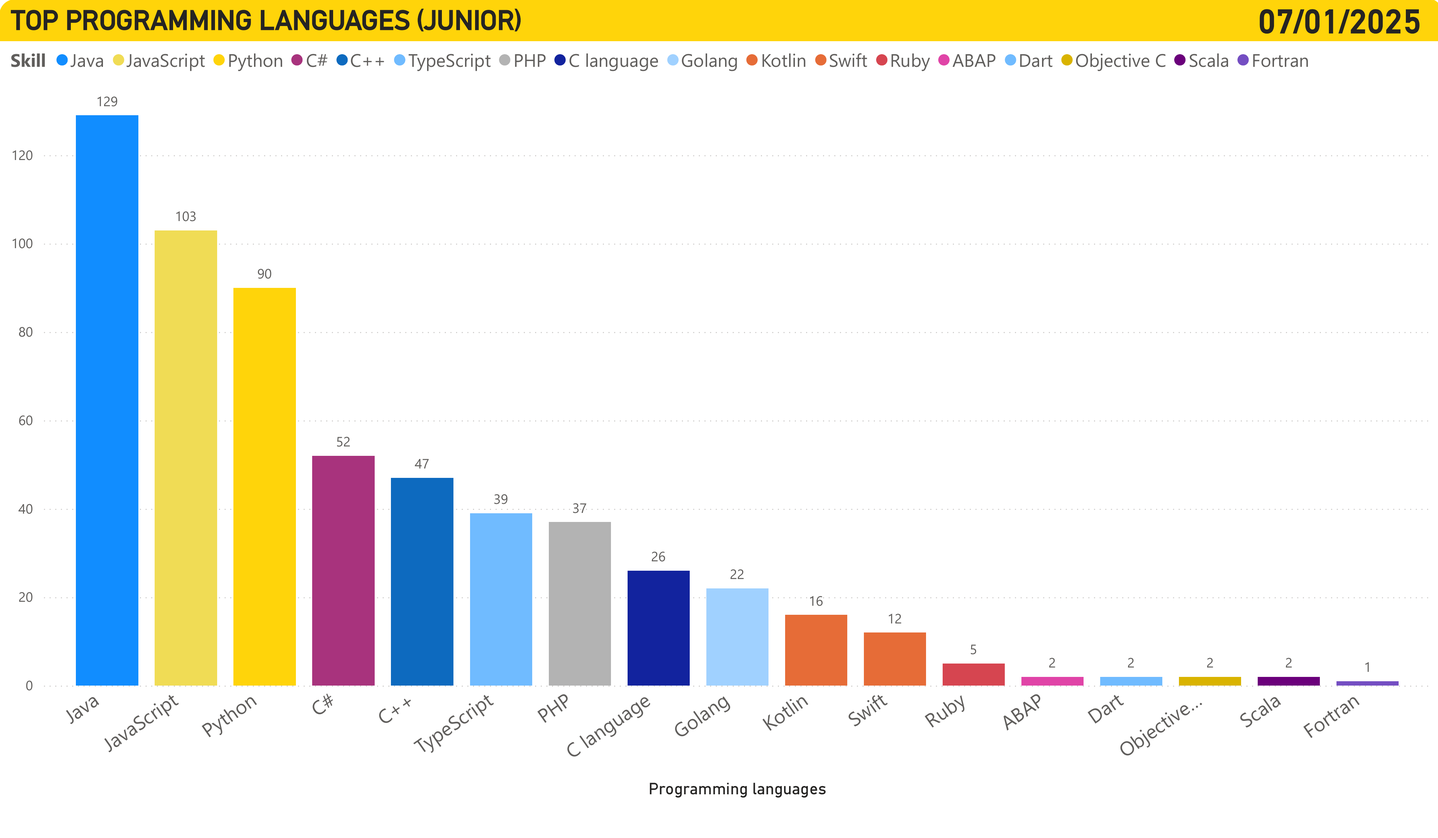
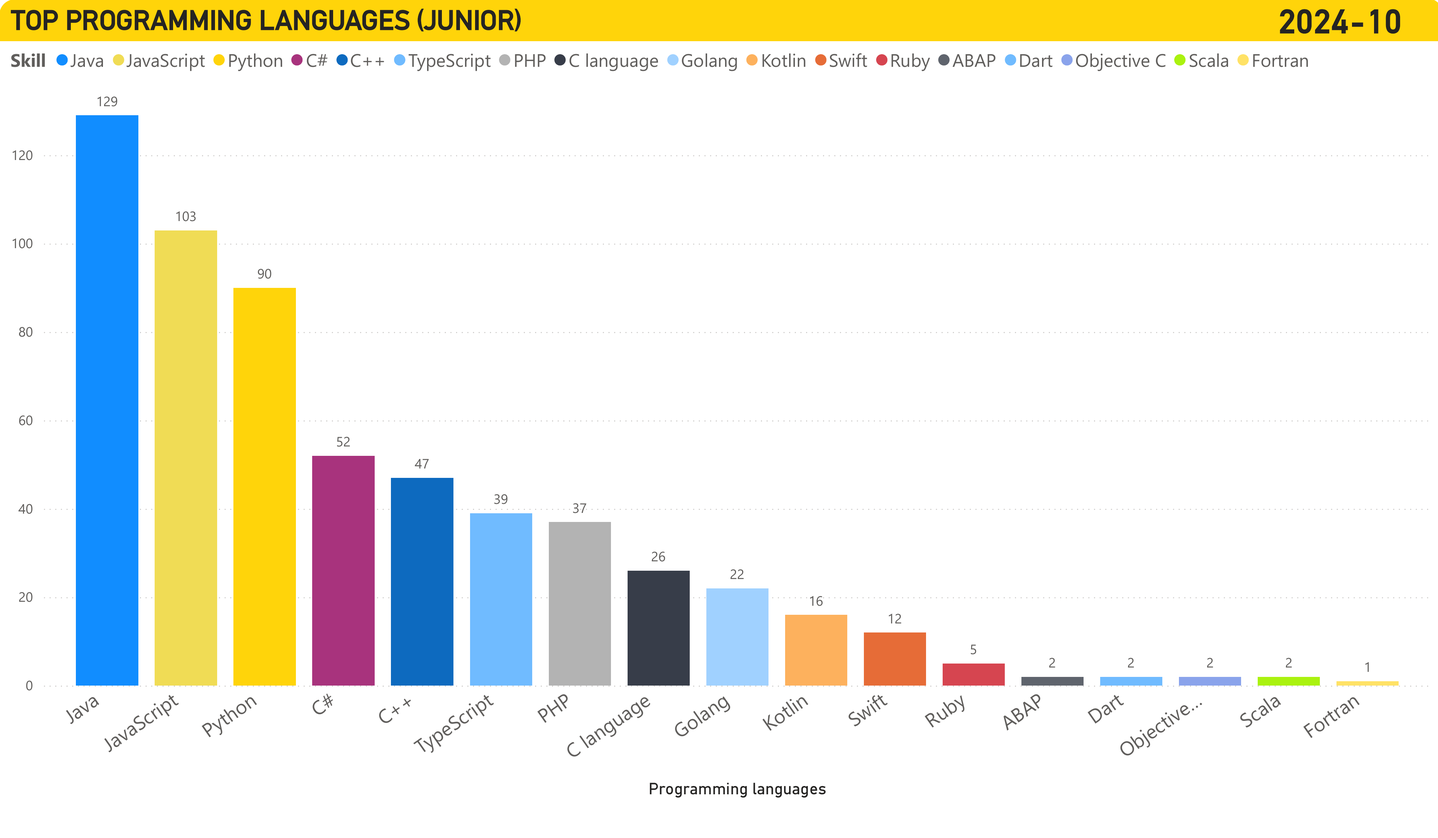
v1 1/7/2025

diff --git a/test/html_university/kythuatlaptrinh1.html b/test/html_university/kythuatlaptrinh1.html
@@ -8,7 +8,7 @@
     <link href="/src/public/css/prism.css" rel="stylesheet">
     <link href="/src/public/css/custom.css" rel="stylesheet">
     <!-- <link href="https://cdn.jsdelivr.net/npm/bootstrap@5.3.3/dist/css/bootstrap.min.css" rel="stylesheet"> -->
-    
+
 </head>
 
 <body>
@@ -83,92 +83,115 @@
                     class="scrollspy-example-2" tabindex="0">
 
                     <h2 id="item-1" class=""><strong>Mục tiêu học tập: </strong></h2>
-                    <h6 class="text-secondary mb-4">Các câu hỏi định hướng nên trả lời được sau khi hoàn thành môn học</h6>
+                    <h6 class="text-secondary mb-4">Các câu hỏi định hướng nên trả lời được sau khi hoàn thành môn học
+                    </h6>
                     <ul class="list-group">
                         <li class="list-group-item">
-                          <input class="form-check-input me-1" type="checkbox" value="" id="firstCheckbox">
-                          <label class="form-check-label" for="firstCheckbox">1. Thành thạo các kỹ thuật bảng phương án, loang mảng 2 chiều, độ phức tạp của giải thuật.</label>
+                            <input class="form-check-input me-1" type="checkbox" value="" id="firstCheckbox">
+                            <label class="form-check-label" for="firstCheckbox">1. Thành thạo các kỹ thuật bảng phương
+                                án, loang mảng 2 chiều, độ phức tạp của giải thuật.</label>
                         </li>
                         <li class="list-group-item">
-                          <input class="form-check-input me-1" type="checkbox" value="" id="secondCheckbox">
-                          <label class="form-check-label" for="secondCheckbox">2. Làm thế nào để tối ưu hóa các thuật toán đệ quy, quy hoạch động và áp dụng chúng vào các bài toán tìm kiếm, duyệt qua các dãy số, tổ hợp hoặc hoán vị?</label>
+                            <input class="form-check-input me-1" type="checkbox" value="" id="secondCheckbox">
+                            <label class="form-check-label" for="secondCheckbox">2. Làm thế nào để tối ưu hóa các thuật
+                                toán đệ quy, quy hoạch động và áp dụng chúng vào các bài toán tìm kiếm, duyệt qua các
+                                dãy số, tổ hợp hoặc hoán vị?</label>
                         </li>
-                      </ul>
+                    </ul>
                     <h2 id="item-2" class="mt-4"><strong>Kiến thức giá trị: </strong></h2>
                     <h6 class="text-secondary">Kiến thức giá trị, câu chuyện thú vị trong quá trình học tập môn học</h6>
                     <h4 id="item-2-1"><strong>#1. Trò chơi 35</strong></h4>
                     <p class="text-end">Nguồn: ThS. Trần Công Tú</p>
-                    <p><strong>Đầu tiên là luật chơi:</strong> Cho các số 1, 2, 3, 4, 5 và tổng S ban đầu bằng 0. Có 2 người chơi lần lượt chọn một trong các số đã cho theo nguyên tắc không được chọn số mà người kia vừa chọn trước đó, mỗi lần ai chọn đều cộng dồn vào tổng S.</p>
+                    <p><strong>Đầu tiên là luật chơi:</strong> Cho các số 1, 2, 3, 4, 5 và tổng S ban đầu bằng 0. Có 2
+                        người chơi lần lượt chọn một trong các số đã cho theo nguyên tắc không được chọn số mà người kia
+                        vừa chọn trước đó, mỗi lần ai chọn đều cộng dồn vào tổng S.</p>
                     <p>Ai làm cho tổng S lớn hơn 35 là thua.</p>
                     <p>Yêu cầu: Lập trình cho người chơi với máy sao cho khả năng thắng của máy là cao nhất.</p>
                     <p>Bạn hãy thử tự chơi với vai trò là 2 người. Hoặc chơi với một bạn nào đó để tìm ra quy luật.</p>
-                    <p>Dưới đây là code bài toán C++. Bạn có thể chơi cùng với máy đã cấu hình theo từng chế độ để tìm quy luật.</p>
-                    <p>Code chỗ này....</p>
+                    <p>Sẽ có 2 trường hợp chính: Một là bạn đã tìm ra được quy luật của nó trước khi dùng code. Hai là
+                        bạn vẫn không hiểu và không code được thì cũng không sao đây không phải mục đích chính bài toán
+                        này.</p>
+                    <p>Đây là đáp án:</p>
+                    <img class="rounded-3" src="/src/public/images/bang_phuong_an.png" alt="Trang đầu tiên của PDF"
+                        width="100%" />
+                    <p>Bây giờ bạn hãy chơi lượt của mình nhưng cố gắng chọn những số ở trong bảng theo từng giai đoạn
+                        tổng hiện tại của 2 người chơi.
+                        Thì bạn sẽ thấy là lượt mình chơi luôn là người chiến thắng nếu không sai sót về sau.
+                    </p>
+                    <p>Quy luật: Để tạo ra bảng đáp án trên bạn chỉ cần đánh số tổng bên phải. Hàng ngang
+                        là con số bạn có thể đánh và chiến thắng. Chúng ta sẽ tư duy ngược lại từ 35, ví dụ 35 thì thua,
+                        34 thì ai chọn 1 thì thắng,
+                        33 thì ai chọn 1 2 thì thắng, 32 thì ai chọn 1 2 3 thì thắng,..., 29 thì ai chọn 3 thì thắng (vì
+                        chọn 3 thì đối thủ không chọn được 3 nữa).
+                    </p>
+                    <p>Điều kiện: Cho đối thủ vào tổng không có lựa chọn nào như 35, 28,... hoặc cho đối thủ vào tổng có
+                        một lựa chọn nhưng lựa chọn đó bị trùng với lượt mình mới đánh.
+                        Chúng ta có bài code tạo bảng đáp án như sau:
+                    </p>
                     <div class="code-container bg-code">
                         <div class="d-flex justify-content-end">
                             <button class="btn btn-sm btn-primary mt-2 me-2" onclick="copyCode(this)">Copy</button>
                         </div>
-                        <pre class="language-sql"><code>CREATE TABLE KhachHang (
-    IDKhachHang INT PRIMARY KEY,	-- Primary Key: IDKhachHang là khóa chính
-    Ten VARCHAR(100) NOT NULL,      -- Tên khách hàng
-    Email VARCHAR(100) UNIQUE,      -- Email là duy nhất cho mỗi khách hàng
-    SDT VARCHAR(15)                 -- Số điện thoại khách hàng
-);
+                        <pre class="language-cpp"><code>#include &lt;iostream&gt;
+using namespace std;
 
-CREATE TABLE HoaDon (
-    IDHoaDon INT PRIMARY KEY,          -- Primary Key: IDBangHoaDon là khóa chính
-    NgayDatHang DATE NOT NULL,         -- Ngày đặt hàng
-    SoTien DECIMAL NOT NULL,           -- Số tiền của đơn hàng
-    IDKhachHang1 INT,                  -- Khóa ngoại liên kết với bảng BangKhachHang
-    FOREIGN KEY (IDKhachHang1) REFERENCES KhachHang(IDKhachHang)  -- Foreign Key: BangHoaDon tham chiếu đến bảng BangKhachHang qua khóa ngoại
-);
-                </code></pre>
+int main() 
+{
+    int A[40][5] = {0}; // Mảng hai chiều
+    for(int i = 35; i &gt;= 0; i--){ //Duyệt mảng từ hàng 35 trở về xuống
+        for(int j = 1; j &lt;=  5; j++){
+            if(i + j &lt;= 35){ 
+                int temp = 0;
+                for(int k = 1; k &lt;= 5; k++){ 
+                    if(A[i + j][k] != 0){ 
+                        temp++;
+                    }
+                }
+                if((temp == 1 &amp;&amp; A[i+j][j] == j) || temp == 0){ //Điều kiện bài toán
+                    A[i][j] = j;
+                }
+            }
+        }
+    }
+    
+    cout &lt;&lt; endl;
+    for(int i = 35; i &gt;= 0; i--){
+        for(int j = 1; j &lt;=  5; j++){
+            cout &lt;&lt; A[i][j] &lt;&lt; " ";
+        }
+        cout &lt;&lt; endl;
+    }
+
+}</code></pre>
                     </div>
-                    <img class="rounded-3" src="/src/public/images/HCSDL_diagram.png" alt="Trang đầu tiên của PDF" width="100%" />
-                    <p>Sẽ có 2 trường hợp chính: Một là bạn đã tìm ra được quy luật của nó trước khi dùng code. Hai là bạn vẫn không hiểu và không code được thì cũng không sao đây không phải mục đích chính bài toán này.</p>
-                    <p>Đây là đáp án:</p>
-                    <p>Ảnh...</p>
-                    <p>Chúng ta sẽ sử dụng bảng đáp án có sẵn. Để tạo ra bảng này cũng dễ, bạn chỉ cần đánh số tổng bên phải. Hàng ngang
-                        là con số bạn có thể đánh và chiến thắng. Chúng ta sẽ tư duy ngược lại từ 35, ví dụ 35 thì thua, 34 thì ai chọn 1 thì thắng,
-                         33 thì ai chọn 1 2 thì thắng, 32 thì ai chọn 1 2 3 thì thắng,..., 29 thì ai chọn 3 thì thắng (vì chọn 3 thì đối thủ không chọn được 3 nữa)
-
-                    </p>
-                    <p>Vậy vấn đề được nhận ra, nếu máy là người đi trước mà tối ưu nhất thì khi máy đánh 1 2 3 đầu tiên và theo
+                    <p>Vậy vấn đề được nhận ra, nếu máy là người đi trước mà tối ưu nhất thì khi máy đánh 1 2 3 đầu tiên
+                        và theo
                         quy luật của bảng đáp án thì sẽ luôn thắng.
                     </p>
-                    <p>Nhưng không dừng lại ở đó, nếu bạn thấy trong code chúng ta có 3 chế độ dễ, trung bình, khó (Chỉ đơn giản tới
-                        mức tổng vượt qua mức bao nhiêu thì lúc đó máy sẽ tra bảng đáp án). Vậy nó để làm gì?
-                        Không phải lúc nào người lập trình cũng tối ưu nhất về phần ứng dụng của mình. Mà cũng phải tối ưu cho <strong>người sử dụng</strong>.
-                        Đặc biệt, thấy rõ trong các trò chơi. Phải có các chế độ, các mức xếp hạng từ dễ đến khó để người dùng chinh phục.
+                    <p>Chúng ta có thể chia ra 3 chế độ dễ, trung bình, khó (chỉ đơn giản là tới mức tổng vượt qua mức bao nhiêu thì lúc đó máy sẽ tra bảng đáp án)
+                        . Vậy nó để làm gì?
+                        Không phải lúc nào người lập trình cũng tối ưu nhất về phần ứng dụng của mình. Mà cũng phải tối
+                        ưu cho <strong>người sử dụng</strong>.
+                        Đặc biệt, thấy rõ trong các trò chơi. Phải có các chế độ, các mức xếp hạng từ dễ đến khó để
+                        người dùng chinh phục.
                     </p>
-                    một số bài toán hay ho hơn cái túi, chuỗi....
-
-                    <p>Giải thích: </p>
-                    <ul>
-                        <li>Bảng KhachHang và bảng HoaDon mỗi bảng đều có một khóa chính lần lượt là IDKhachHang và IDBangHoaDon.</li>
-                        <li>Khi có hóa đơn ta không cần phải tạo thêm cột thông tin của khách hàng bởi vì đã có khóa ngoại IDKhachHang1 tham chiếu về bảng KhachHang.</li>
-                        <li>Email không được trùng lặp, Tên không được rỗng.</li>
-                    </ul>
-                    <p>Toàn bộ quá trình trên thực hiện tốt sẽ đảm bảo tính <strong>toàn vẹn</strong> của dữ liệu.</p>
-                    <div class="callout-primary ps-3">Một ứng dụng tạo ra phải đặt <strong>người dùng</strong> là yếu tố đầu tiên.</div>
-                    <h4 id="item-2-2"><strong>#2. Đệ quy Fibonacci</strong></h4>
-                    <p>.....................</p>
+                    <div class="callout-primary ps-3">Một ứng dụng tạo ra phải đặt <strong>người dùng</strong> là yếu tố
+                        đầu tiên.</div>
                 </div>
             </div>
         </div>
         <div class="col-sm-2 bg-gray">
             <!-- Database scrollspy -->
             <div class="row sticky-top pt-6">
-                    <nav id="navbar-example3" class="h-100 flex-column align-items-stretch pe-4 border-end">
+                <nav id="navbar-example3" class="h-100 flex-column align-items-stretch pe-4 border-end">
+                    <nav class="nav nav-pills flex-column">
+                        <a class="nav-link" href="#item-1">Mục tiêu học tập:</a>
+                        <a class="nav-link" href="#item-2">Kiến thức thú vị</a>
                         <nav class="nav nav-pills flex-column">
-                            <a class="nav-link" href="#item-1">Mục tiêu học tập:</a>
-                            <a class="nav-link" href="#item-2">Kiến thức thú vị</a>
-                            <nav class="nav nav-pills flex-column">
-                                <a class="nav-link ms-3 my-1" href="#item-2-1">1. Primary key, Foreign Key, Unique và Not Null</a>
-                                <a class="nav-link ms-3 my-1" href="#item-2-2">2. Thứ tự thực hiện lệnh</a>
-                            </nav>
+                            <a class="nav-link ms-3 my-1" href="#item-2-1">1. Trò chơi 35</a>
                         </nav>
                     </nav>
+                </nav>
             </div>
         </div>
         <!-- Footer (Không có đụng gì vào) -->

diff --git a/src/index.php b/src/index.php
@@ -61,7 +61,7 @@
         <h4 class="mt-3 p-2 text-center">Nếu bạn lần đầu đến với Work7</h4>
         <p class="text-center ms-5 me-5 mb-4 border-bottom pb-4 border-dark"> Một số hướng dẫn cho người mới bắt đầu và các câu hỏi thường gặp.</p>
         <div class="accordion mb-5" id="accordionPanelsStayOpenExample">
-        <div class="accordion-item">
+            <div class="accordion-item">
                 <h2 class="accordion-header">
                     <button class="accordion-button" type="button" data-bs-toggle="collapse" data-bs-target="#panelsStayOpen-collapseOne" aria-expanded="true" aria-controls="panelsStayOpen-collapseOne">
                         <strong>Học Tập IT</strong>
@@ -73,7 +73,7 @@
                         Nơi chia sẻ mục tiêu <strong>cơ bản</strong>, kiến thức <strong>giá trị</strong>, câu chuyện <strong>thú vị</strong> thông qua những môn học ngành IT. Mang đến cho mọi người
                         cái nhìn tổng quan nhất về ngành.
                         <br><br>
-                        Nội dụng:
+                        Nội dung:
                         <ul>
                             <li>Mục tiêu học tập</li>
                             <li>Kiến thức, câu chuyện thú vị trong trong môn học.</li>
@@ -97,6 +97,7 @@
                     <div class="accordion-body">
                         Sử dụng <strong>web scraping</strong> để cung cấp báo cáo và nhận định, giúp mọi người đưa ra những quyết định chính
                         xác hơn.
+                        <i>Dữ liệu sẽ được cập nhật hàng tuần.</i>
                         <br><br>
                         Đối tượng:
                         <ul>
@@ -114,7 +115,7 @@
                     </button>
                 </h2>
                 <div id="panelsStayOpen-collapseThree" class="accordion-collapse collapse">
-                <div class="accordion-body">
+                    <div class="accordion-body">
                         Đám mây từ (Word cloud generator) giúp tạo ra một hình ảnh trực quan, thể hiện tần suất xuất hiện của các từ trong một tập dữ liệu.
                         <br><br>
                         Đối tượng: Tất cả mọi người
@@ -135,6 +136,19 @@
                     </div>
                 </div>
             </div>
+            <div class="accordion-item">
+                <h2 class="accordion-header">
+                    <button class="accordion-button collapsed" type="button" data-bs-toggle="collapse" data-bs-target="#panelsStayOpen-collapseFour" aria-expanded="false" aria-controls="panelsStayOpen-collapseFour">
+                        <strong>Nếu bạn thấy thích thú về Work7</strong>
+                    </button>
+                </h2>
+                <div id="panelsStayOpen-collapseFour" class="accordion-collapse collapse">
+                    <div class="accordion-body">
+                        Đừng quên theo dõi các trang mạng xã hội của Work7 để không bỏ lỡ những thông tin và bản cập nhật mới nhất từ Work7! ❤
+                    </div>
+                </div>
+            </div>
+
         </div>
     </div>
     <div class="col-sm-2 bg-gray">

diff --git a/src/app/views/market.php b/src/app/views/market.php
@@ -13,6 +13,7 @@ include 'partials/header.php';
                 trực quan hóa, đưa ra các insights.</p> -->
         <p class="text-center mb-4 border-bottom pb-4 border-dark">Ngôn ngữ lập trình, kỹ năng, cấp bậc, vị trí,... theo <strong>thời gian thực</strong>.</p>
         <img class="rounded-3 mb-4" src="/public/images/ikigaiww7.png" alt="Trang đầu tiên của PDF" width="100%" />
+        <p class=""><i>Thời gian hiện tại ít hoạt động tuyển dụng, nên dữ liệu thống kê hiện tại là tháng 10/2024.</i></p>
         <h3>Ngôn ngữ lập trình</h3>
         <div class="d-flex justify-content-end">
 
@@ -48,7 +49,19 @@ include 'partials/header.php';
         <img id="pageImage2" class="rounded-3" src="/public/images/page_6.png" alt="Trang đầu tiên của PDF" width="100%" />
         <h3>Vị trí</h3>
         <img class="rounded-3" src="/public/images/page_11.png" alt="Trang đầu tiên của PDF" width="100%" />
-        <h3>Các bài phân tích</h3>
+        <h3>Các bài phân tích </h3>
+        <div class="d-flex flex-wrap justify-content-center align-items-center bg-white border border-3 rounded-3 pt-3 pb-3 m-3">
+        <p><i>Comming soon</i></p>
+        <?php foreach ($lang as $blog): ?>
+                <!-- Thay vì dùng form, chúng ta dùng thẻ <a> để chuyển hướng đến trang chi tiết blog -->
+                <a
+                    class="btn btn-outline-primary m-1 text-decoration-none text-center"
+                    href="learn.php?action=blog&type=language_market&id=<?php echo htmlspecialchars($blog['id']); ?>"
+                    style="width: 20rem;">
+                    <?php echo htmlspecialchars($blog['title']); ?>
+                </a>
+            <?php endforeach; ?>
+        </div>
         <h4 class="mt-3 p-2 text-center">Nếu bạn lần đầu đến với Thị Trường IT</h4>
         <p class="text-center ms-5 me-5 mb-4 border-bottom pb-4 border-dark"> Một số hướng dẫn cho người mới bắt đầu và các câu hỏi thường gặp.</p>
         <div class="accordion mb-5" id="accordionPanelsStayOpenExample">
@@ -62,6 +75,7 @@ include 'partials/header.php';
                     <div class="accordion-body">
                         Sử dụng <strong>web scraping</strong> để cung cấp báo cáo và nhận định, giúp mọi người đưa ra những quyết định chính
                         xác hơn.
+                        <i>Dữ liệu sẽ được cập nhật hàng tuần.</i>
                         <br><br>
                         Đối tượng:
                         <ul>

diff --git a/src/app/views/learn.php b/src/app/views/learn.php
@@ -19,18 +19,18 @@ include 'partials/header.php';
                 <!-- Sử dụng thẻ <a> để dẫn đến trang chi tiết blog -->
                 <a
                     class="btn btn-outline-primary m-1 text-decoration-none text-center"
-                    href="learn.php?action=blog&type=university&id=<?php echo htmlspecialchars($blog['id']); ?>"
+                    href="learn?action=blog&type=university&id=<?php echo htmlspecialchars($blog['id']); ?>"
                     style="width: 20rem;">
                     <?php echo htmlspecialchars($blog['id']) . '. ' . htmlspecialchars($blog['title']); ?>
                 </a>
             <?php endforeach; ?>
         </div>
 
-        <h3 class="mt-2">Mẹo và thủ thuật</h3>
+        <!-- <h3 class="mt-2">Mẹo và thủ thuật</h3> -->
         <div class="pt-3 pb-3 mb-3">
             <?php foreach ($mind as $blog): ?>
                 <!-- Thay vì dùng form, chúng ta dùng thẻ <a> để chuyển hướng đến trang chi tiết blog -->
-                <a class="nav-link m-1 d-block border-bottom border-1" href="learn.php?action=blog&type=mindset&id=<?php echo htmlspecialchars($blog['id']); ?>">
+                <a class="nav-link m-1 d-block border-bottom border-1" href="learn?action=blog&type=mindset&id=<?php echo htmlspecialchars($blog['id']); ?>">
                     <?php echo $blog['title']; ?>
                 </a>
             <?php endforeach; ?>
@@ -50,7 +50,7 @@ include 'partials/header.php';
                         Nơi chia sẻ mục tiêu <strong>cơ bản</strong>, kiến thức <strong>giá trị</strong>, câu chuyện <strong>thú vị</strong> thông qua những môn học ngành IT. Mang đến cho mọi người
                         cái nhìn tổng quan nhất về ngành.
                         <br><br>
-                        Nội dụng:
+                        Nội dung:
                         <ul>
                             <li>Mục tiêu học tập</li>
                             <li>Kiến thức, câu chuyện thú vị trong trong môn học.</li>

diff --git a/src/app/views/partials/footer.php b/src/app/views/partials/footer.php
@@ -11,27 +11,26 @@
                 </svg>
             </div>
             <div class="ms-2">
-                <h4 class="text-light">working7.com</h4>
+                <h4 class="text-light">work7.vn</h4>
             </div>
         </div>
         <p class="ms-2 text-light">work-life balance.</p>
         <div class="col-sm-2"></div>
     </div>
-    <div class="col-sm-3 mt-5">
-
+    <div class="col-sm-3">
     </div>
-    <div class="col-sm-3 mt-5">
+    <div class="col-sm-3 mt-5 mb-5">
         <div class="d-flex">
             <a type="button" class="btn btn-secondary ms-2 me-2" target="_blank" href="https://www.facebook.com/worklife7/">
                 <svg xmlns="http://www.w3.org/2000/svg" width="16" height="16" fill="currentColor" class="bi bi-facebook" viewBox="0 0 16 16">
                     <path d="M16 8.049c0-4.446-3.582-8.05-8-8.05C3.58 0-.002 3.603-.002 8.05c0 4.017 2.926 7.347 6.75 7.951v-5.625h-2.03V8.05H6.75V6.275c0-2.017 1.195-3.131 3.022-3.131.876 0 1.791.157 1.791.157v1.98h-1.009c-.993 0-1.303.621-1.303 1.258v1.51h2.218l-.354 2.326H9.25V16c3.824-.604 6.75-3.934 6.75-7.951"></path>
                 </svg>
             </a>
-            <a type="button" class="btn btn-secondary ms-2 me-2" target="_blank" href="#">
+            <!-- <a type="button" class="btn btn-secondary ms-2 me-2" target="_blank" href="https://www.tiktok.com/@work7_?_t=ZS-8soevecaTH0&_r=1">
                 <svg xmlns="http://www.w3.org/2000/svg" width="16" height="16" fill="currentColor" class="bi bi-tiktok" viewBox="0 0 16 16">
                     <path d="M9 0h1.98c.144.715.54 1.617 1.235 2.512C12.895 3.389 13.797 4 15 4v2c-1.753 0-3.07-.814-4-1.829V11a5 5 0 1 1-5-5v2a3 3 0 1 0 3 3z"></path>
                 </svg>
-            </a>
+            </a> -->
         </div>
     </div>
 </div>

diff --git a/src/app/views/partials/header.php b/src/app/views/partials/header.php
@@ -13,7 +13,7 @@
 <body>
     <nav class="navbar navbar-expand-lg navbar-light sticky-top bg-black">
         <div class="container-fluid">
-            <a class="navbar-brand text-light" href="/index.php">
+            <a class="navbar-brand text-light" href="/home">
             <svg width="30" height="30" viewBox="0 0 30 30" fill="none" xmlns="http://www.w3.org/2000/svg">
 <rect x="29.5" y="0.5" width="29" height="29" rx="2.5" transform="rotate(90 29.5 0.5)" fill="white"/>
 <rect x="29.5" y="0.5" width="29" height="29" rx="2.5" transform="rotate(90 29.5 0.5)" stroke="white"/>
@@ -30,13 +30,13 @@
             <div class="collapse navbar-collapse" id="navbarSupportedContent">
                 <ul class="navbar-nav me-auto mb-2 mb-lg-0">
                     <li class="nav-item">
-                        <a class="nav-link text-gray" href="/public/learn.php">Học Tập IT</a>
+                        <a class="nav-link text-gray" href="/learn">Học Tập IT</a>
                     </li>
                     <li class="nav-item">
-                        <a class="nav-link text-gray" href="/public/market.php">Thị Trường IT</a>
+                        <a class="nav-link text-gray" href="/market">Thị Trường IT</a>
                     </li>
                     <li class="nav-item">
-                        <a class="nav-link text-gray" href="/app/views/word_cloud.php">Word Cloud Generator</a>
+                        <a class="nav-link text-gray" href="/word_cloud">Word Cloud Generator</a>
                     </li>
                 </ul>
                 <a class="text-gray btn btn-outline-warning" target="_blank" href="https://forms.gle/fHsS35u5ucLwkFZw9">Trao đổi</a>
